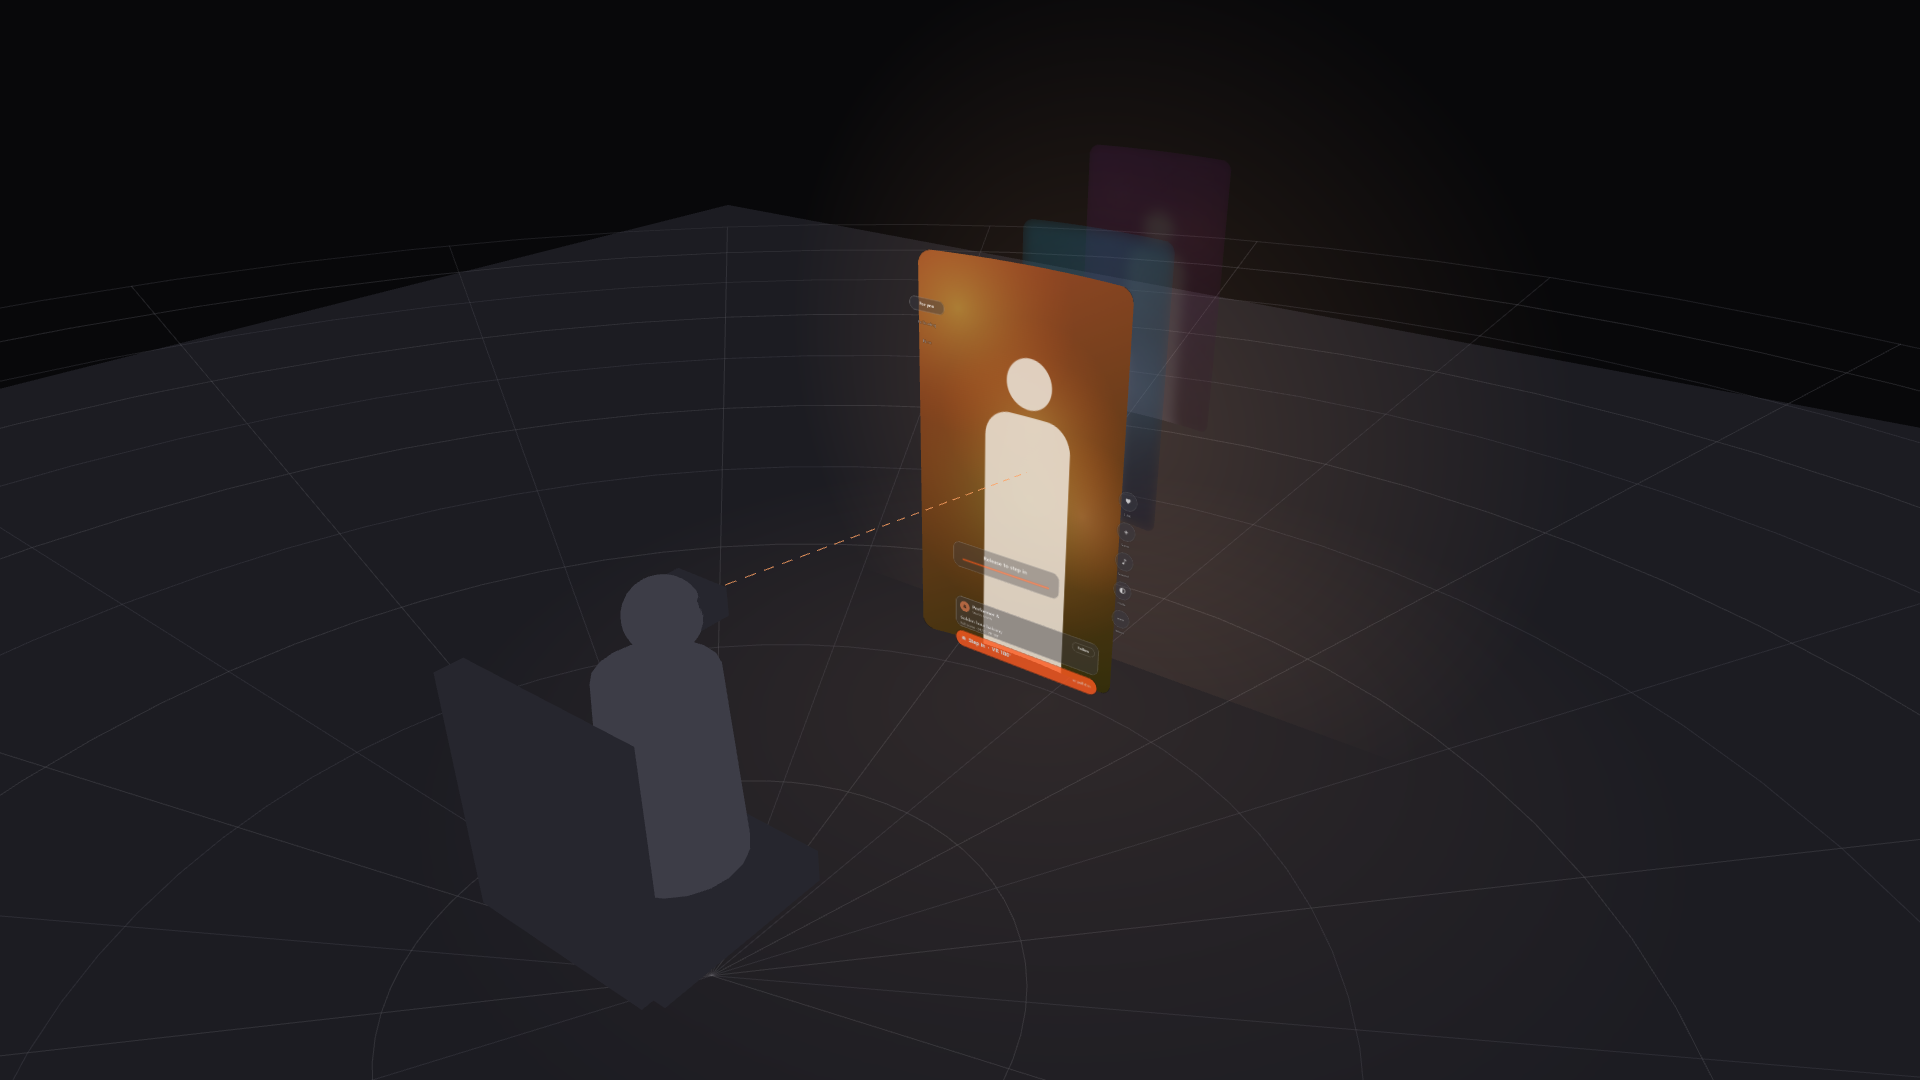
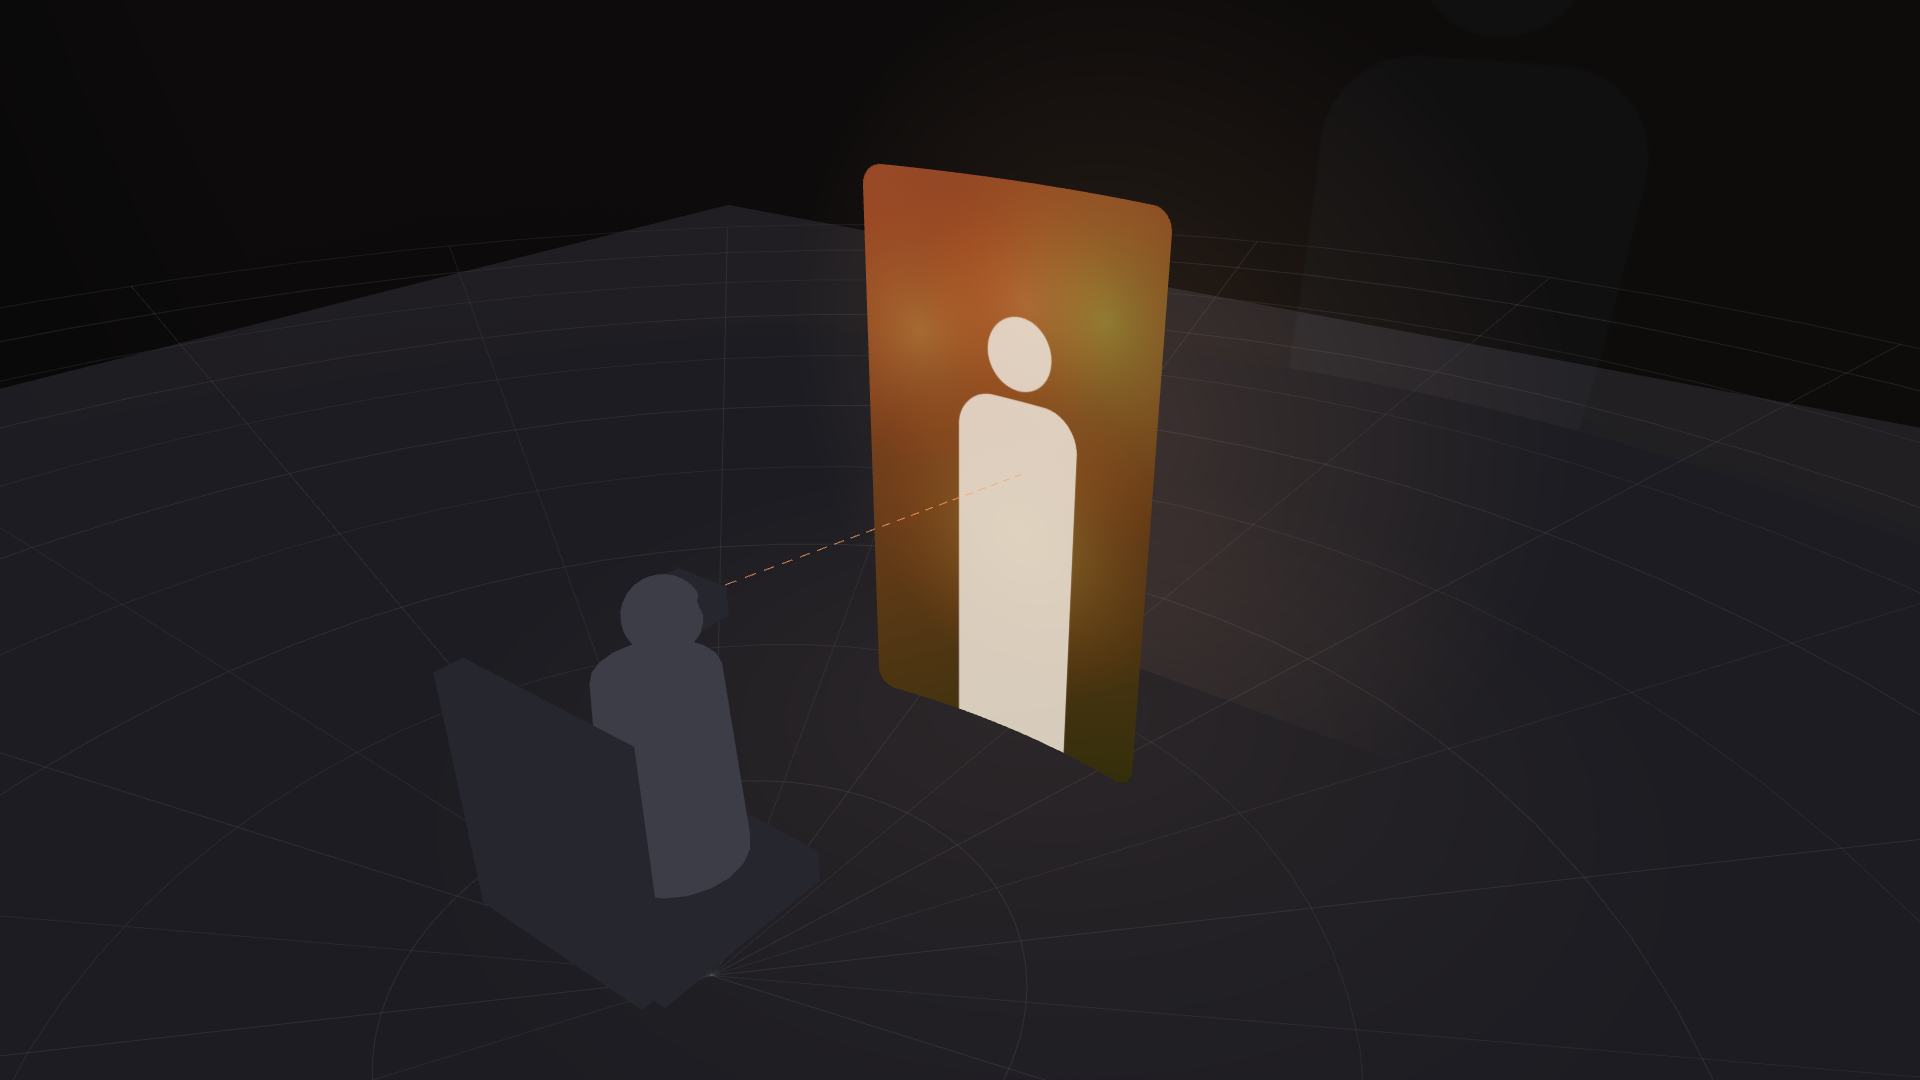
Reshoot step-in storyboard; log handover structure
Step-in captures now show four distinct stages (pull, grow, wrap, 180°).
Audit doc records the final page structure and the 07b vignette.

Changed region(s): [[0.4375, 0.1528, 0.625, 0.7333]]

diff --git a/docs/08-audit-and-plan.md b/docs/08-audit-and-plan.md
@@ -26,6 +26,11 @@ All hidden layers are hidden, not deleted.
 
 Open: 05 info panel still says "Dirty Sheets" for the clip being skipped (needs that clip's real title); skip glow is orange like the Like glow (make it neutral grey).
 
+### 7 Oct, late: handover structure
+- Pages: 0 · Brief, 1 · Concept, 2 · Key screens, 3 · In the room, 4 · Decisions & MVP, Sandbox. Nick removed the other archive pages.
+- 3 · In the room: boards "In the room" and "Stepping in" (storyboard reshot so each step reads: pull, grow, wrap, 180°).
+- 07b: curved vignette (`Curved vignette · 180°`) under the player UI to suggest the 180° wrap.
+
 ### Still to do (Nick, design)
 1. Recolour feed ornaments (rail, info, CTA, coach mark, toasts) from glass to the SLR player panel style.
 2. Library: switch to `01 B` (SLR sidebar), swap kittens for blurred stills.
